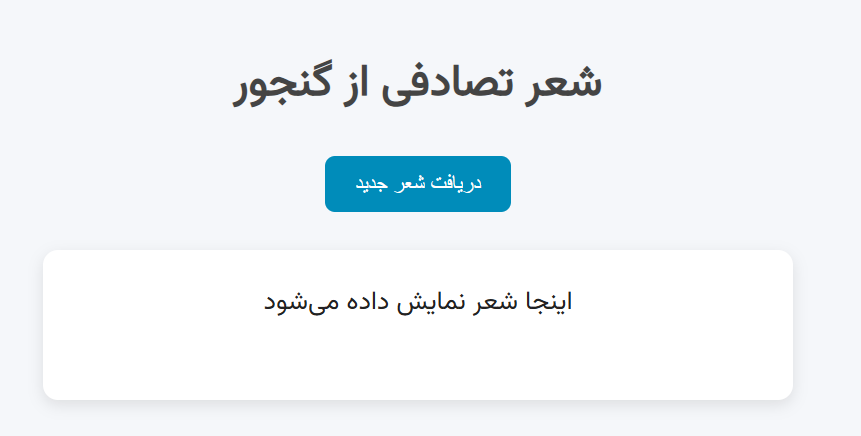
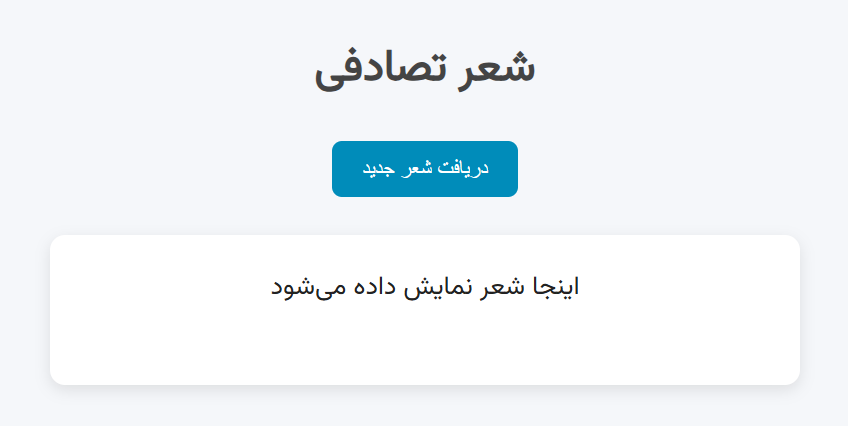
Updated README and added background changes

diff --git a/index.php b/index.php
@@ -11,7 +11,7 @@
         <link rel="stylesheet" href="assets/css/style.css">
     </head>
     <body>
-        <h1>شعر تصادفی از گنجور</h1>
+        <h1>شعر تصادفی</h1>
         <button onclick="getNewRandomPoem()">دریافت شعر جدید</button>
         <div id="poem-box">اینجا شعر نمایش داده میشود</div>
 
